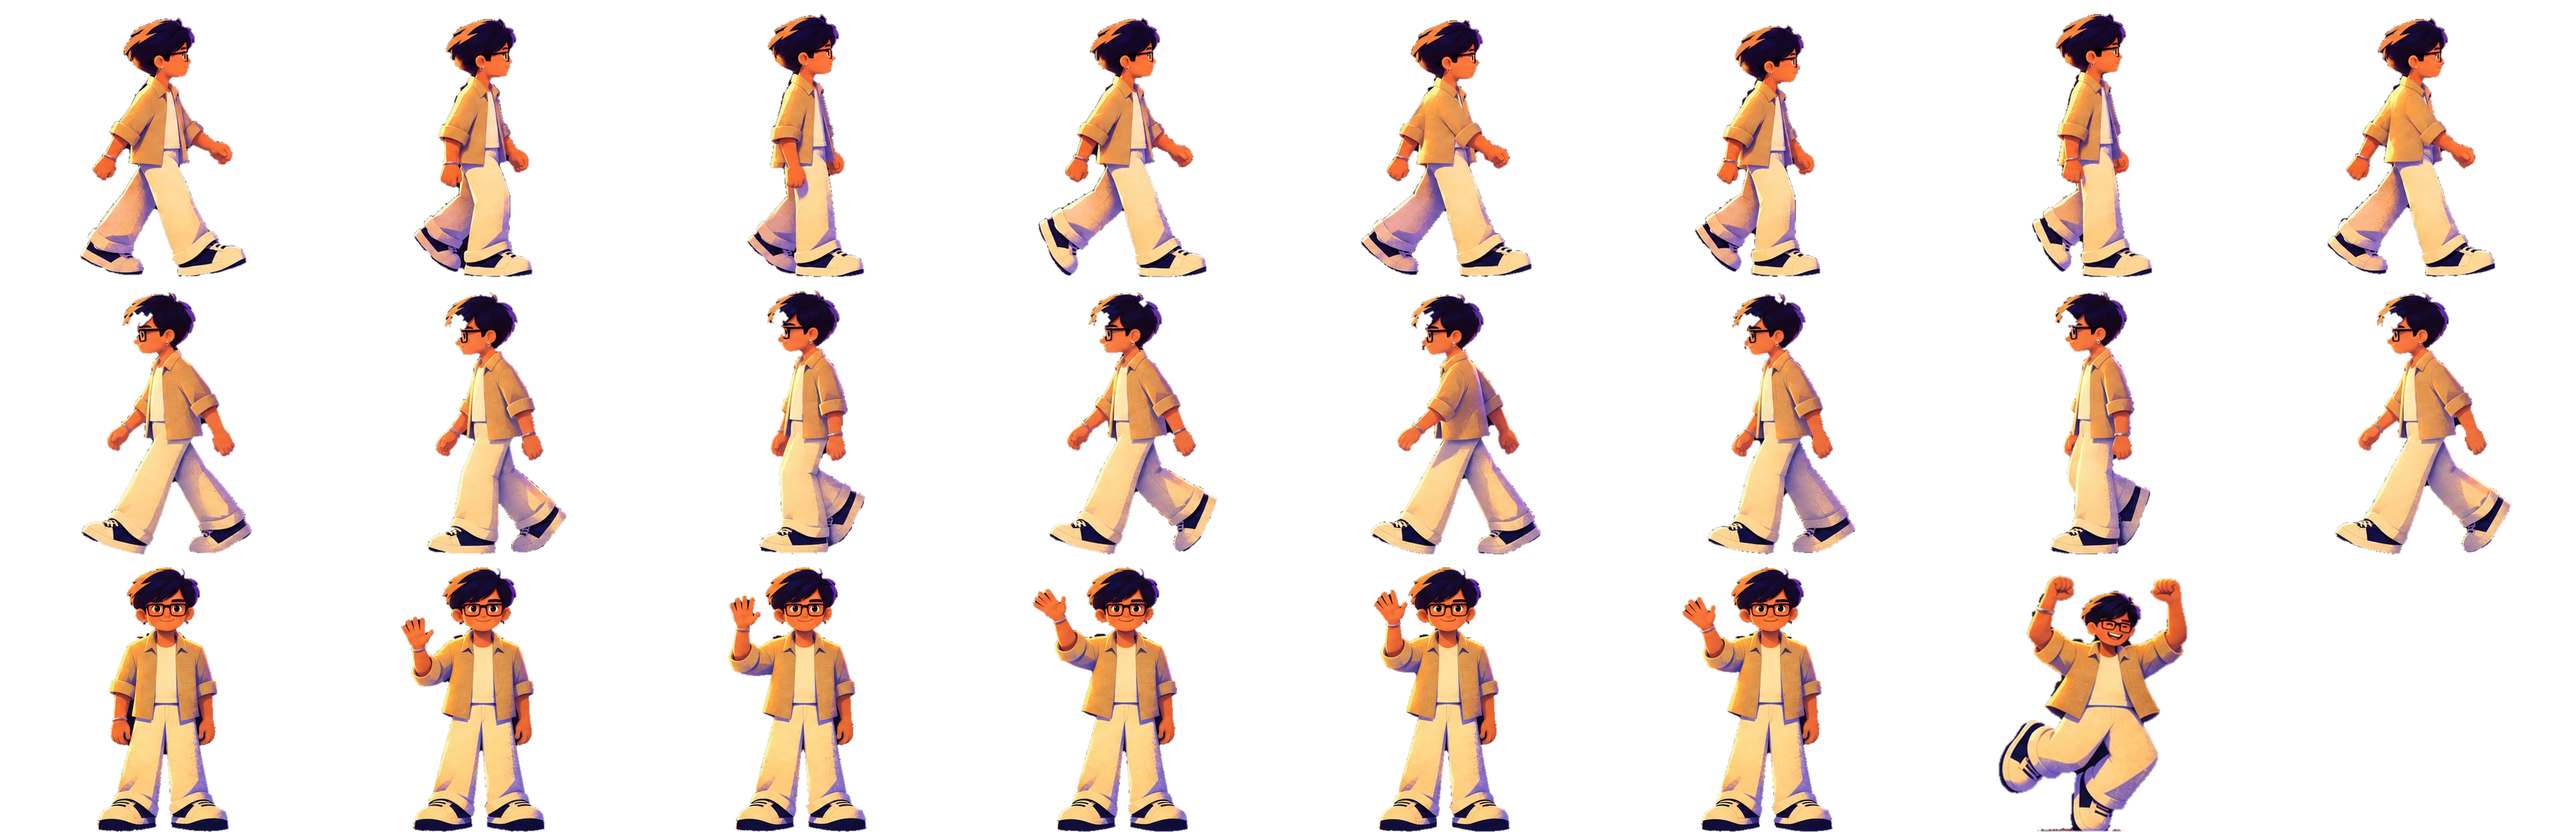
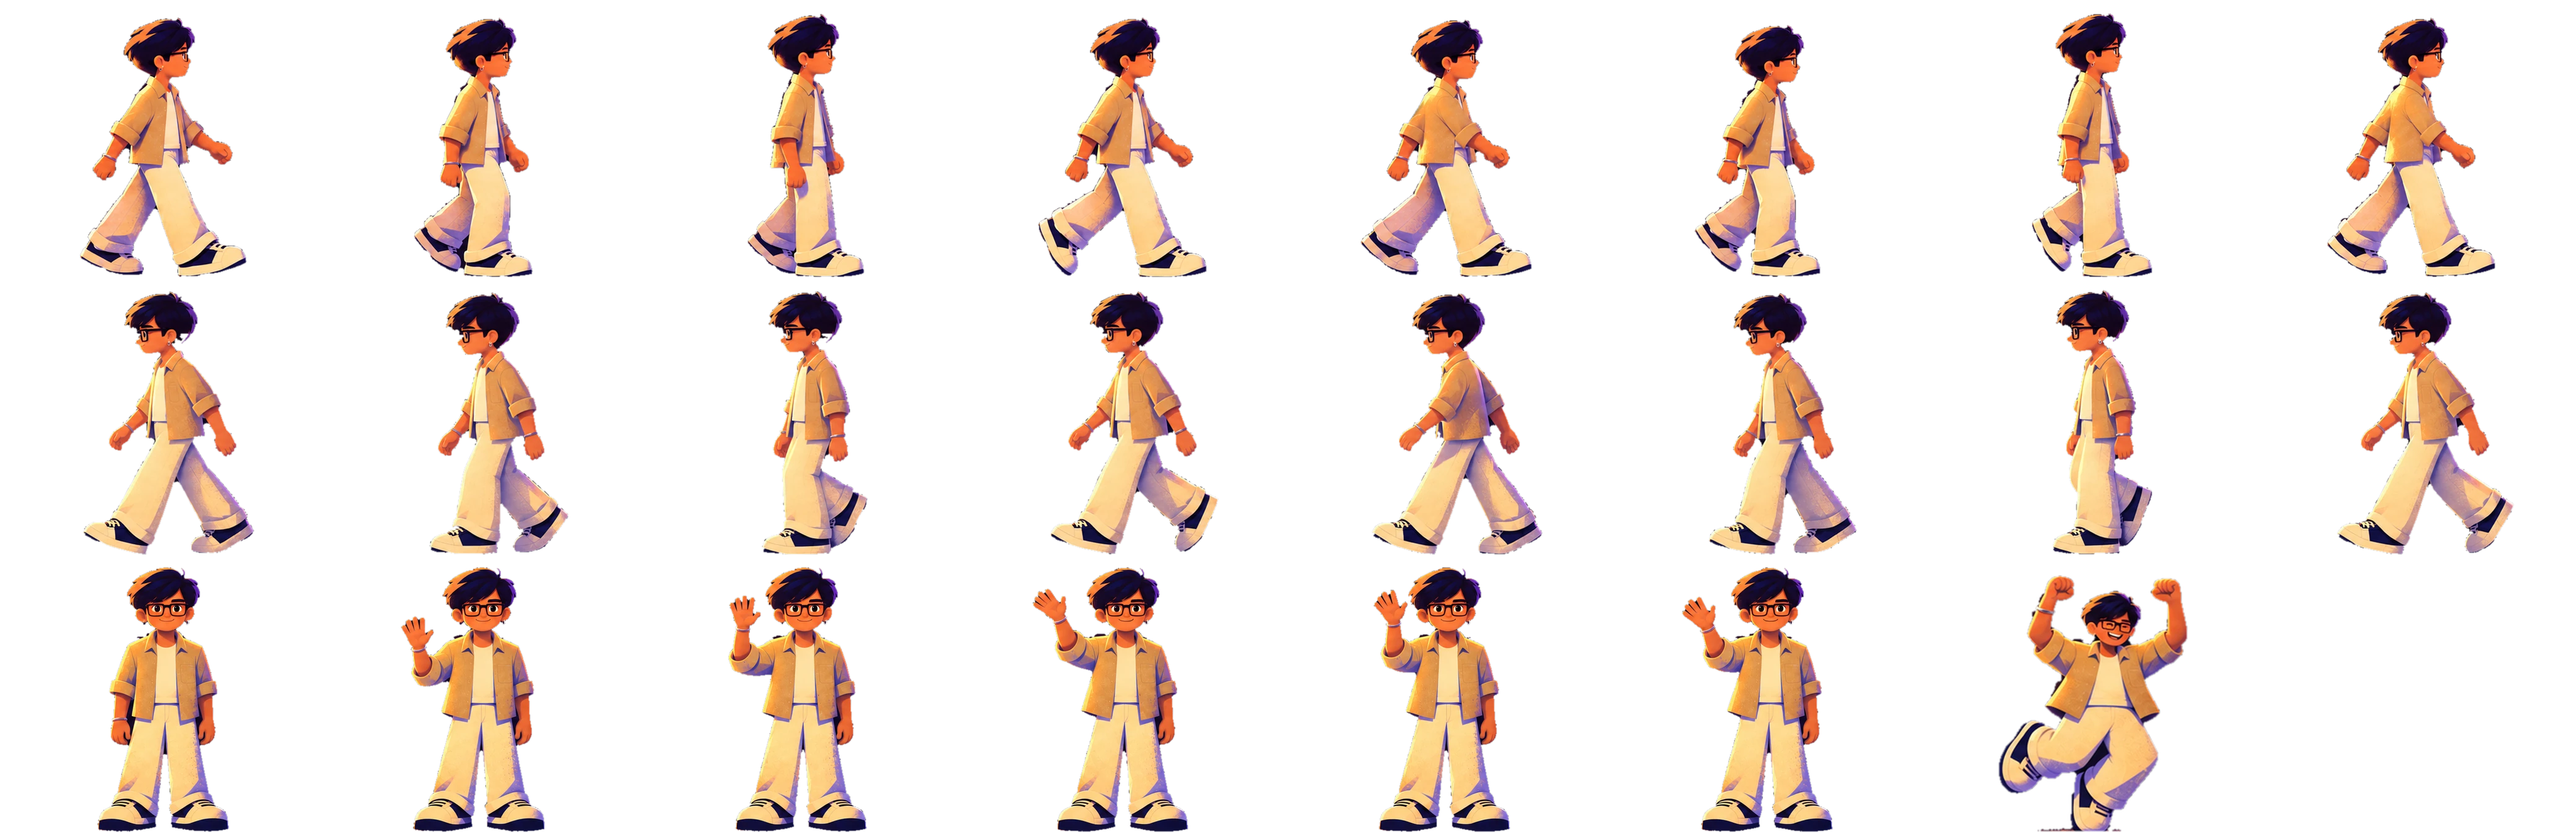
Character: stop the hair flickering when he walks left
The background removal for the left-walk frames was biting a different chunk out of the
fringe on every frame. The fringe is now kept out of that pass (it only clears the glow
painted in front of his mouth), so the head is identical in shape across the cycle.

diff --git a/index.html b/index.html
@@ -8,7 +8,7 @@
   <link rel="preconnect" href="https://fonts.googleapis.com" />
   <link rel="preconnect" href="https://fonts.gstatic.com" crossorigin />
   <link href="https://fonts.googleapis.com/css2?family=Press+Start+2P&family=Silkscreen&family=VT323&family=Noto+Sans+Devanagari:wght@700&display=swap" rel="stylesheet" />
-  <link rel="stylesheet" href="styles.css?v=1790883542" />
+  <link rel="stylesheet" href="styles.css?v=1790884162" />
 </head>
 <body class="ride preloading" data-location="street">
   <!-- preloader: READY? SET... GO! -> logo -> pixel dissolve into the street (js/preloader.js) -->
@@ -36,7 +36,7 @@
     <canvas class="pl-blocks"></canvas>
     <p class="pl-skip">Click or press any key to skip</p>
   </div>
-  <script src="js/preloader.js?v=1790883542"></script>
+  <script src="js/preloader.js?v=1790884162"></script>
   <a class="skip-link" href="#subway">Skip to projects</a>
 
   <!-- HUD: menu, metro route map, skip toggle -->
@@ -209,8 +209,8 @@
   <!-- train wipe used when boarding a project -->
   <div class="train-wipe" aria-hidden="true"><div class="train-car"></div></div>
 
-  <script src="js/data.js?v=1790883542"></script>
-  <script src="js/sprite.js?v=1790883542"></script>
-  <script src="js/main.js?v=1790883542"></script>
+  <script src="js/data.js?v=1790884162"></script>
+  <script src="js/sprite.js?v=1790884162"></script>
+  <script src="js/main.js?v=1790884162"></script>
 </body>
 </html>

diff --git a/projects.html b/projects.html
@@ -8,8 +8,8 @@
   <link rel="preconnect" href="https://fonts.googleapis.com" />
   <link rel="preconnect" href="https://fonts.gstatic.com" crossorigin />
   <link href="https://fonts.googleapis.com/css2?family=Press+Start+2P&family=Silkscreen&family=VT323&family=Noto+Sans+Devanagari:wght@700&display=swap" rel="stylesheet" />
-  <link rel="stylesheet" href="styles.css?v=1790883542" />
-  <link rel="stylesheet" href="project.css?v=1790883542" />
+  <link rel="stylesheet" href="styles.css?v=1790884162" />
+  <link rel="stylesheet" href="project.css?v=1790884162" />
 </head>
 <body class="project-page all-page" data-location="subway">
   <header class="hud">
@@ -32,7 +32,7 @@
 
   <div class="pixel-wipe" aria-hidden="true"></div>
 
-  <script src="js/data.js?v=1790883542"></script>
+  <script src="js/data.js?v=1790884162"></script>
   <script>
     (function () {
       const S = SITE, $ = (s) => document.querySelector(s);

diff --git a/project.html b/project.html
@@ -7,8 +7,8 @@
   <link rel="preconnect" href="https://fonts.googleapis.com" />
   <link rel="preconnect" href="https://fonts.gstatic.com" crossorigin />
   <link href="https://fonts.googleapis.com/css2?family=Press+Start+2P&family=Silkscreen&family=VT323&family=Noto+Sans+Devanagari:wght@700&display=swap" rel="stylesheet" />
-  <link rel="stylesheet" href="styles.css?v=1790883542" />
-  <link rel="stylesheet" href="project.css?v=1790883542" />
+  <link rel="stylesheet" href="styles.css?v=1790884162" />
+  <link rel="stylesheet" href="project.css?v=1790884162" />
 </head>
 <body class="project-page" data-location="subway">
   <header class="hud">
@@ -44,7 +44,7 @@
 
   <div class="pixel-wipe" aria-hidden="true"></div>
 
-  <script src="js/data.js?v=1790883542"></script>
+  <script src="js/data.js?v=1790884162"></script>
   <script>
     (function () {
       const list = SITE.projects;

diff --git a/js/sprite.js b/js/sprite.js
@@ -42,10 +42,10 @@
        alias: poses that borrow another pose's frames
        fps:   walk/run cadence, if it differs from the default */
   const SETS = {
-    pixel: { src: "assets/character/sheet.webp?v=1790883542", cw: CW, ch: CH, cols: COLS, anims: ANIMS, bob: BOB, pixel: true },
+    pixel: { src: "assets/character/sheet.webp?v=1790884162", cw: CW, ch: CH, cols: COLS, anims: ANIMS, bob: BOB, pixel: true },
     // hero street (tools/pack_street_sprite.py): walk right 0-7, walk left 8-15, stand 16, wave 17-21, jump 22
     street: {
-      src: "assets/character/street.webp?v=1790883542", cw: 520, ch: 448, cols: 8,
+      src: "assets/character/street.webp?v=1790884162", cw: 520, ch: 448, cols: 8,
       anims: {
         walk: [0, 1, 2, 3, 4, 5, 6, 7], walkL: [8, 9, 10, 11, 12, 13, 14, 15],
         idle: [16], wave: [17, 18, 19, 20, 21, 20], fall: [22],

diff --git a/tools/pack_street_sprite.py b/tools/pack_street_sprite.py
@@ -37,9 +37,9 @@ def key(a, r, haze=None, T=14):
     lab, _ = nd.label(~nd.binary_dilation(solid, structure=disk(r)))
     edge = np.unique(np.concatenate([lab[0], lab[-1], lab[:, 0], lab[:, -1]]))
     out = nd.binary_dilation(np.isin(lab, edge[edge > 0]), structure=disk(r + 1)) & ~solid
-    if haze:   # a faint warm glow painted beside him (haze = how strong, how deep), and the dark pockets it closes off
-        soft, pocket = haze
-        glow = ~out & (d < soft) & (dv[..., 0] >= 4) & (dv[..., 0] >= dv[..., 2])
+    if haze:   # a faint warm glow painted beside him (haze = how strong, how deep, how red), and the dark pockets it closes off
+        soft, pocket, red = haze
+        glow = ~out & (d < soft) & (dv[..., 0] >= red) & (dv[..., 0] >= dv[..., 2])
         eaten = nd.binary_dilation(out, iterations=0, mask=out | glow) & ~out
         dark = ~out & ~eaten & (d < T)
         out |= eaten
@@ -87,13 +87,14 @@ def grid(name, cols, rows, r, anchor, haze=None, head=None):
 
 frames = []
 frames += grid("walk-right.png", 4, 2, 4, "head")               # 0-7
-frames += grid("walk-left.png", 4, 2, 4, "head", haze=(50, 6))   # 8-15
-frames += grid("wave.png", 3, 2, 2, "feet", haze=(28, 0), head=(0.27, 0.19))   # 16-21: stand, then the wave
+# (the glow is in front of his mouth; his fringe, just above, is kept out of the haze pass or it flickers)
+frames += grid("walk-left.png", 4, 2, 4, "head", haze=(95, 6, 8), head=(0.165, 0.3))   # 8-15
+frames += grid("wave.png", 3, 2, 2, "feet", haze=(28, 0, 4), head=(0.27, 0.19))   # 16-21: stand, then the wave
 
 # 22: the jump pose from the reference sheet (he drops into the manhole in it)
 ref = np.array(Image.open(SRC / "reference.png").convert("RGB"))
 JUMP = (870, 596, 1110, 883)       # stops above the dust painted on the ground
-f, ax = cut(ref, key(ref, 3, haze=(28, 0)), JUMP, "head", (0.42, 0.17), key(ref, 3))
+f, ax = cut(ref, key(ref, 3, haze=(28, 0, 4)), JUMP, "head", (0.42, 0.17), key(ref, 3))
 k = STAND * 0.97 / f.height
 frames.append((f.resize((round(f.width * k), round(f.height * k)), Image.LANCZOS), round(f.width * k / 2)))
 
